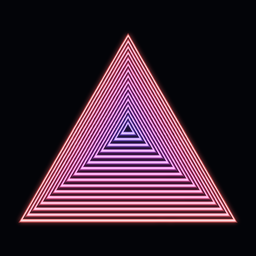
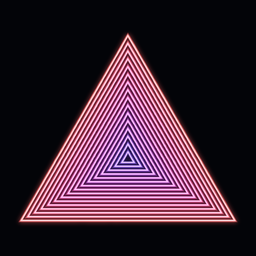
fix(shape): uniform ring spacing for pointed shapes
Recentering on the bbox kept the figure centered but, under homothety,
made the edges nearest the center pack twice as tightly as the far ones
(a triangle's apex read denser than its base). Nest the rings about the
shape's incenter instead (equal perpendicular gap on every edge) and
place the whole stack with a single bbox offset taken from the outer
ring, so the spacing is uniform and the frame is still filled. Tunnel and
the off-center styles keep per-ring centering. Regenerated shape and
morph examples; circle output unchanged.

Changed region(s): [[0.0625, 0.125, 0.9375, 0.875]]

diff --git a/main.py b/main.py
@@ -157,7 +157,7 @@ def generator(save_path: str, target_size: int = 256, rings: int = 16,
         circle_color = palette_color(pos, palette)
 
         _draw_ring(rings_draw, glow_draw, center, radius, width, circle_color,
-                   factors=factors)
+                   factors=factors, anchor=center - padding)
 
     # Composite: dark canvas -> soft halo (limited) -> crisp tube rings on top.
     glow = glow.filter(ImageFilter.GaussianBlur(radius=scale_factor * 2))
@@ -247,16 +247,22 @@ def shape_factors_for(shape, phase=0.0):
     return _centered([av + (bv - av) * frac for av, bv in zip(a, b)])
 
 
-def _shape_xy(cx, cy, radius, shape):
+def _shape_xy(cx, cy, radius, shape, anchor=None):
+    # The shape is recentered by its bbox offset. `anchor` is the radius that
+    # offset scales with: pass a fixed value (the outer ring) so a whole stack
+    # of concentric rings shares one offset and keeps uniform edge spacing;
+    # leave it None to scale the offset with this ring (centers a lone ring at
+    # cx, cy, used by the off-center and zoom styles).
     factors, ox, oy, _inner = shape
+    a = radius if anchor is None else anchor
     n = len(factors)
-    return [(cx + radius * (factors[j] * math.cos(_angle(j, n)) - ox),
-             cy + radius * (factors[j] * math.sin(_angle(j, n)) - oy))
+    return [(cx + radius * factors[j] * math.cos(_angle(j, n)) - a * ox,
+             cy + radius * factors[j] * math.sin(_angle(j, n)) - a * oy)
             for j in range(n)]
 
 
 def _shaped_tube(rings_draw, glow_draw, cx, cy, radius, width, color, alpha,
-                 factors):
+                 factors, anchor=None):
     """Trace a bead-shaded tube as nested polygons at (cx, cy) for a shape's
     per-angle `factors`. Shared by the centered and off-center ring drawers."""
     dark = interpolate(color, (0, 0, 0), 0.65)
@@ -271,18 +277,20 @@ def _shaped_tube(rings_draw, glow_draw, cx, cy, radius, width, color, alpha,
         shade = interpolate(dark, light, val)
         if alpha < 1.0:
             shade = interpolate((0, 0, 0), shade, alpha)
-        pts = _shape_xy(cx, cy, rr, factors)
+        pts = _shape_xy(cx, cy, rr, factors, anchor)
         rings_draw.line(pts + [pts[0]], fill=shade, width=2, joint="curve")
     glow_color = interpolate((0, 0, 0), color, alpha) if alpha < 1.0 else color
-    gpts = _shape_xy(cx, cy, radius, factors)
+    gpts = _shape_xy(cx, cy, radius, factors, anchor)
     glow_draw.line(gpts + [gpts[0]], fill=glow_color, width=int(width), joint="curve")
 
 
 def _draw_ring(rings_draw, glow_draw, center, radius, width, color, alpha=1.0,
-               factors=None):
+               factors=None, anchor=None):
     """Draw one ring onto the crisp and glow layers, dimmed by alpha. With
     `factors` (a shape's per-angle radii) the ring is a polygon instead of a
-    circle; without it the fast ellipse path is used (unchanged)."""
+    circle; without it the fast ellipse path is used (unchanged). `anchor` fixes
+    the bbox-offset radius so a concentric stack keeps uniform edge spacing
+    (see `_shape_xy`)."""
     if factors is None:
         glow_color = interpolate((0, 0, 0), color, alpha) if alpha < 1.0 else color
         draw_tube_ring(rings_draw, center, radius, width, color, alpha)
@@ -291,7 +299,7 @@ def _draw_ring(rings_draw, glow_draw, center, radius, width, color, alpha=1.0,
                           outline=glow_color, width=int(width))
         return
     _shaped_tube(rings_draw, glow_draw, center, center, radius, width, color,
-                 alpha, factors)
+                 alpha, factors, anchor)
 
 
 def _finish_frame(canvas_px, rings_layer, glow, scale_factor, target_size):
@@ -349,12 +357,13 @@ def render_ripple_frame(canvas_px, center, step, padding, rings, lo, hi,
         else:
             color = palette_color(lo + (hi - lo) * (eff / max(1, rings - 1)), palette)
         _draw_ring(rings_draw, glow_draw, center, radius, width, color, alpha,
-                   factors)
+                   factors, anchor=center - padding)
 
     # Permanent outermost ring, drawn LAST so it is never overwritten and stays
     # exactly the same every frame, masking where the next ring is born.
     _draw_ring(rings_draw, glow_draw, center, center - padding, width,
-               palette_color(lo, palette), factors=factors)
+               palette_color(lo, palette), factors=factors,
+               anchor=center - padding)
 
     return _finish_frame(canvas_px, rings_layer, glow, scale_factor, target_size)
 
@@ -377,7 +386,8 @@ def render_flow_frame(canvas_px, center, step, padding, rings, lo, hi,
     for i in range(rings):
         radius = center - (padding + i * step)
         _draw_ring(rings_draw, glow_draw, center, radius, width,
-                   _flow_color(i, rings, lo, hi, phase, palette), factors=factors)
+                   _flow_color(i, rings, lo, hi, phase, palette),
+                   factors=factors, anchor=center - padding)
 
     return _finish_frame(canvas_px, rings_layer, glow, scale_factor, target_size)
 
@@ -526,7 +536,7 @@ def render_breathing_frame(canvas_px, center, step, padding, rings, lo, hi,
             continue
         color = palette_color(lo + (hi - lo) * depth, palette)
         _draw_ring(rings_draw, glow_draw, center, radius, width, color,
-                   factors=factors)
+                   factors=factors, anchor=center - padding)
 
     return _finish_frame(canvas_px, rings_layer, glow, scale_factor, target_size)
 
